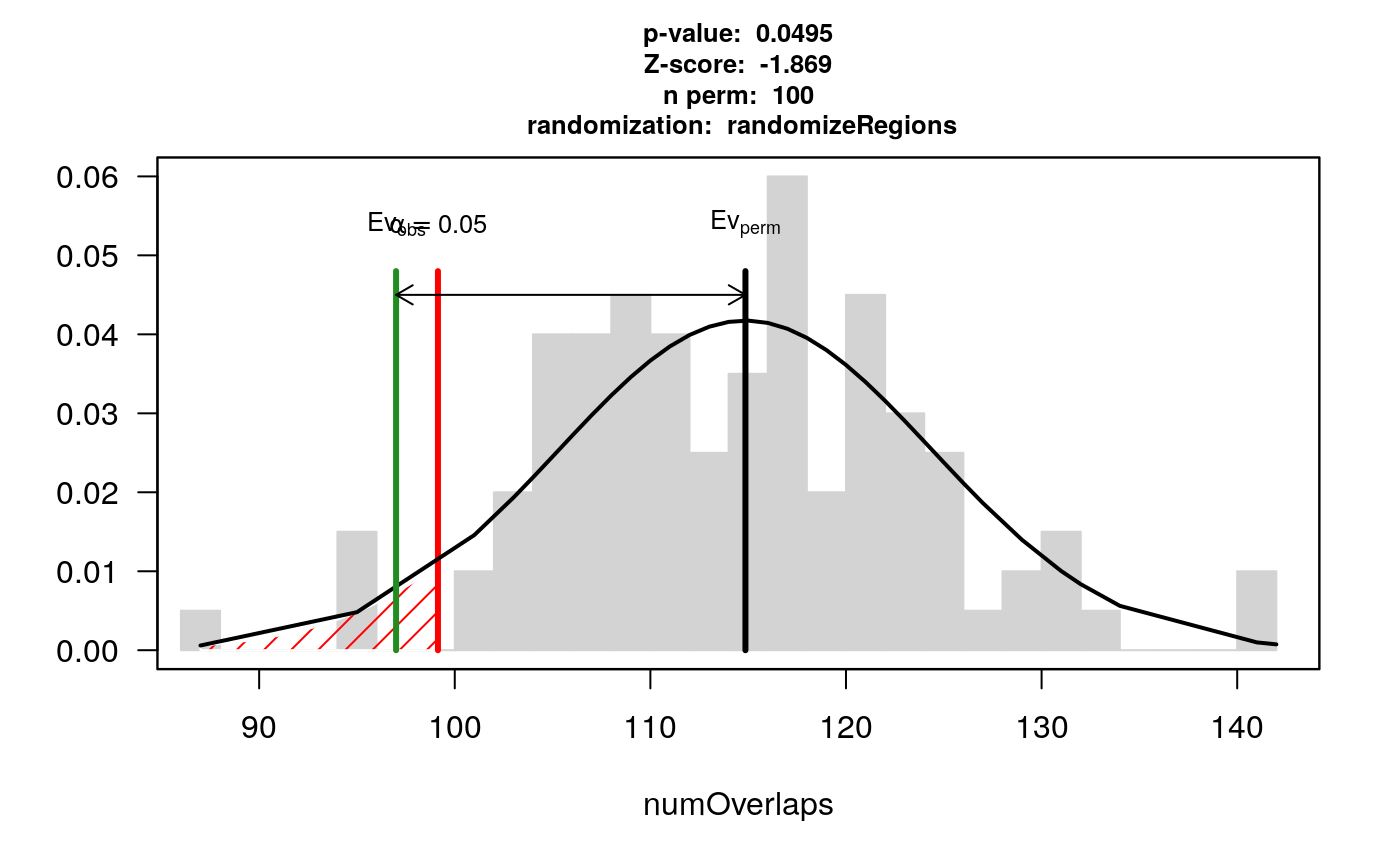
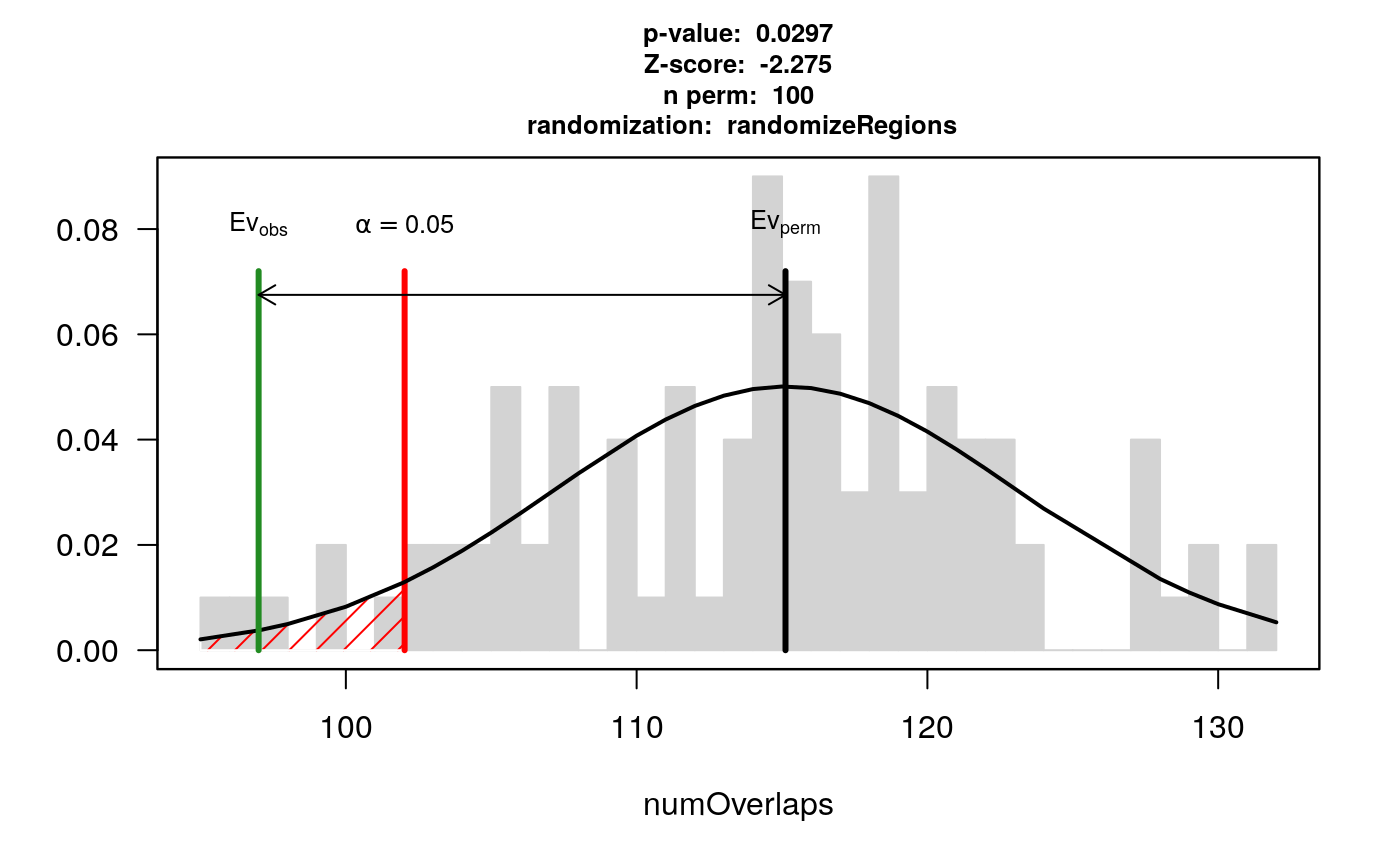
Deploying to gh-pages from  @ e99ae902c33673b4fa2f8177d49039a20d72703a 🚀

diff --git a/articles/Geistlinger_CNVWorkshop.html b/articles/Geistlinger_CNVWorkshop.html
@@ -177,7 +177,7 @@
 <p>Relevant literature:</p>
 <p>da Silva V, Ramos M, Groenen M, Crooijmans R, Johansson A, Regitano L, Coutinho L, Zimmer R, Waldron L, Geistlinger L. <a href="https://doi.org/10.1093/bioinformatics/btz632">CNVRanger: association analysis of CNVs with gene expression and quantitative phenotypes</a>. <em>Bioinformatics</em>, 36(3):972-3, 2020.</p>
 <p>Oh S, Geistlinger L, Ramos M, Morgan M, Waldron L, Riester M. <a href="https://doi.org/10.1200/CCI.19.00130">Reliable analysis of clinical tumor-only whole-exome sequencing data</a>. <em>JCO Clin Cancer Inform</em>, 4:321-35, 2020.</p>
-<p>Geistlinger L, Oh S, Ramos M, Schiffer L, LaRue R, Henzler C, Munro S, Daughters C, Nelson A, Winterhoff B, Chang Z, Talukdar S, Shetty M, Mullaney S, Morgan M, Parmigiani G, Birrer M, Qin LX, Riester M, Starr T, Waldron L. <a href="https://doi.org/10.1101/554394">Multi-omic analysis of subtype evolution and heterogeneity in high-grade serous ovarian carcinoma</a>. <em>bioRxiv</em>, 2020.</p>
+<p>Geistlinger L, Oh S, Ramos M, Schiffer L, LaRue R, Henzler C, Munro S, Daughters C, Nelson A, Winterhoff B, Chang Z, Talukdar S, Shetty M, Mullaney S, Morgan M, Parmigiani G, Birrer M, Qin LX, Riester M, Starr T, Waldron L. <a href="https://doi.org/10.1101/554394">Multi-omic analysis of subtype evolution and heterogeneity in high-grade serous ovarian carcinoma</a>. <em>Cancer Research</em>, 2020.</p>
 </div>
 <div id="representation-and-manipulation-of-cnv-data-with-raggedexperiment" class="section level2">
 <h2 class="hasAnchor">
@@ -396,7 +396,7 @@ RaggedExperiment object schematic. Rows and columns represent genomic ranges and
 <div id="reading-and-accessing-cnv-data" class="section level3">
 <h3 class="hasAnchor">
 <a href="#reading-and-accessing-cnv-data" class="anchor"></a>Reading and accessing CNV data</h3>
-<p><img src="../../../../usr/local/lib/R/site-library/CNVRanger/vignettes/Input.png" width="100%"></p>
+<p><img src="Input.png" width="100%"></p>
 <p><code>CNVRanger</code> uses Bioconductor core data structures implemented in the <a href="http://bioconductor.org/packages/GenomicRanges">GenomicRanges</a> and <a href="http://bioconductor.org/packages/RaggedExperiment">RaggedExperiment</a> packages to represent, access, and manipulate CNV data.</p>
 <p>We start by loading the package.</p>
 <div class="sourceCode" id="cb33"><html><body><pre class="r"><span class="fu"><a href="https://rdrr.io/r/base/library.html">library</a></span>(<span class="no">CNVRanger</span>)</pre></body></html></div>
@@ -546,23 +546,23 @@ RaggedExperiment object schematic. Rows and columns represent genomic ranges and
 <pre><code>## DataFrame with 711 rows and 2 columns
 ##             weight       fcr
 ##          &lt;numeric&gt; &lt;numeric&gt;
-## NE001357   1010.73      4.91
-## NE001358   1085.78      4.69
-## NE001359   1175.89      7.04
-## NE001360   1105.79      3.87
-## NE001361   1063.63      7.59
+## NE001357    947.12      4.81
+## NE001358   1035.79      5.89
+## NE001359    956.55      8.43
+## NE001360   1173.04      7.58
+## NE001361   1145.18      7.00
 ## ...            ...       ...
-## NE003962   1181.32      3.93
-## NE003963   1171.99      5.62
-## NE003966   1261.44      7.62
-## NE003967   1078.17      5.44
-## NE003968   1151.47      7.75</code></pre>
+## NE003962   1025.24      8.17
+## NE003963   1160.86      6.81
+## NE003966   1005.61      7.50
+## NE003967   1127.88      3.64
+## NE003968   1071.93      6.11</code></pre>
 </div>
 </div>
 <div id="summarizing-individual-cnv-calls-across-a-population" class="section level3">
 <h3 class="hasAnchor">
 <a href="#summarizing-individual-cnv-calls-across-a-population" class="anchor"></a>Summarizing individual CNV calls across a population</h3>
-<p><img src="../../../../usr/local/lib/R/site-library/CNVRanger/vignettes/Summarization.png" width="40%" style="float:right; padding:10px"></p>
+<p><img src="Summarization.png" width="40%" style="float:right; padding:10px"></p>
 <p>In CNV analysis, it is often of interest to summarize individual calls across the population, (i.e. to define CNV regions), for subsequent association analysis with expression and phenotype data. In the simplest case, this just merges overlapping individual calls into summarized regions. However, this typically inflates CNV region size, and more appropriate approaches have been developed for this purpose.</p>
 <div id="trimming-low-density-areas" class="section level4">
 <h4 class="hasAnchor">
@@ -638,12 +638,12 @@ RaggedExperiment object schematic. Rows and columns represent genomic ranges and
 <div id="overlap-analysis-of-cnvs-with-functional-genomic-regions" class="section level3">
 <h3 class="hasAnchor">
 <a href="#overlap-analysis-of-cnvs-with-functional-genomic-regions" class="anchor"></a>Overlap analysis of CNVs with functional genomic regions</h3>
-<p><img src="../../../../usr/local/lib/R/site-library/CNVRanger/vignettes/Overlap.png" width="40%" style="float:right; padding:10px"></p>
+<p><img src="Overlap.png" width="40%" style="float:right; padding:10px"></p>
 <p>Once individual CNV calls have been summarized across the population, it is typically of interest whether the resulting CNV regions overlap with functional genomic regions such as genes, promoters, or enhancers.</p>
 <p>To obtain the location of protein-coding genes, we query available <em>Bos taurus</em> annotation from Ensembl</p>
 <div class="sourceCode" id="cb57"><html><body><pre class="r"><span class="fu"><a href="https://rdrr.io/r/base/library.html">library</a></span>(<span class="no">AnnotationHub</span>)
 <span class="no">ah</span> <span class="kw">&lt;-</span> <span class="kw pkg">AnnotationHub</span><span class="kw ns">::</span><span class="fu"><a href="https://rdrr.io/pkg/AnnotationHub/man/AnnotationHub-class.html">AnnotationHub</a></span>()</pre></body></html></div>
-<pre><code>## using temporary cache /tmp/RtmpUW0TrD/BiocFileCache</code></pre>
+<pre><code>## using temporary cache /tmp/RtmpemSfzg/BiocFileCache</code></pre>
 <pre><code>## snapshotDate(): 2020-06-18</code></pre>
 <div class="sourceCode" id="cb60"><html><body><pre class="r"><span class="no">ahDb</span> <span class="kw">&lt;-</span> <span class="kw pkg">AnnotationHub</span><span class="kw ns">::</span><span class="fu"><a href="https://rdrr.io/pkg/AnnotationHub/man/AnnotationHub-class.html">query</a></span>(<span class="no">ah</span>, <span class="kw">pattern</span> <span class="kw">=</span> <span class="fu"><a href="https://rdrr.io/r/base/c.html">c</a></span>(<span class="st">"Bos taurus"</span>, <span class="st">"EnsDb"</span>))
 <span class="no">ahDb</span></pre></body></html></div>
@@ -783,8 +783,8 @@ RaggedExperiment object schematic. Rows and columns represent genomic ranges and
     <span class="kw">genome</span><span class="kw">=</span><span class="st">"bosTau6"</span>, <span class="kw">mask</span><span class="kw">=</span><span class="fl">NA</span>, <span class="kw">per.chromosome</span><span class="kw">=</span><span class="fl">TRUE</span>, <span class="kw">count.once</span><span class="kw">=</span><span class="fl">TRUE</span>))
 <span class="no">res</span></pre></body></html></div>
 <pre><code>## $numOverlaps
-## P-value: 0.0495049504950495
-## Z-score: -1.8688
+## P-value: 0.0297029702970297
+## Z-score: -2.2753
 ## Number of iterations: 100
 ## Alternative: less
 ## Evaluation of the original region set: 97
@@ -795,8 +795,8 @@ RaggedExperiment object schematic. Rows and columns represent genomic ranges and
 ## [1] "permTestResultsList"</code></pre>
 <div class="sourceCode" id="cb75"><html><body><pre class="r"><span class="fu"><a href="https://rdrr.io/r/base/summary.html">summary</a></span>(<span class="no">res</span><span class="kw">[[</span><span class="fl">1</span>]]$<span class="no">permuted</span>)</pre></body></html></div>
 <pre><code>##    Min. 1st Qu.  Median    Mean 3rd Qu.    Max. 
-##    87.0   108.0   115.0   114.9   121.0   142.0</code></pre>
-<p>The resulting permutation <em>p</em>-value indicates a significant depletion. Out of the 303 CNV regions, 97 overlap with at least one gene. In contrast, when repeatedly drawing random regions matching the CNV regions in size and chromosomal distribution, the mean number of overlapping regions across permutations was 114.9 <span class="math inline">\(\pm\)</span> 9.6.</p>
+##    95.0   110.0   116.0   115.1   120.0   132.0</code></pre>
+<p>The resulting permutation <em>p</em>-value indicates a significant depletion. Out of the 303 CNV regions, 97 overlap with at least one gene. In contrast, when repeatedly drawing random regions matching the CNV regions in size and chromosomal distribution, the mean number of overlapping regions across permutations was 115.1 <span class="math inline">\(\pm\)</span> 8.</p>
 <p>This finding is consistent with our observations across the whole genome (<a href="https://doi.org/10.1371/journal.pone.0157711">da Silva et al., 2016</a>) and findings from the 1000 Genomes Poject (<a href="https://www.nature.com/articles/nature15394">Sudmant et al., 2015</a>).</p>
 <div class="sourceCode" id="cb77"><html><body><pre class="r"><span class="fu"><a href="https://rdrr.io/r/base/plot.html">plot</a></span>(<span class="no">res</span>)</pre></body></html></div>
 <p><img src="Geistlinger_CNVWorkshop_files/figure-html/vizPermTest-1.png" width="100%"></p>
@@ -804,7 +804,7 @@ RaggedExperiment object schematic. Rows and columns represent genomic ranges and
 <div id="cnv-expression-association-analysis" class="section level3">
 <h3 class="hasAnchor">
 <a href="#cnv-expression-association-analysis" class="anchor"></a>CNV-expression association analysis</h3>
-<p><img src="../../../../usr/local/lib/R/site-library/CNVRanger/vignettes/Expression.png" width="40%" style="float:right; padding:10px"></p>
+<p><img src="Expression.png" width="40%" style="float:right; padding:10px"></p>
 <p>Studies of expression quantitative trait loci (eQTLs) aim at the discovery of genetic variants that explain variation in gene expression levels (<a href="https://www.ncbi.nlm.nih.gov/pubmed/23650636">Nica and Dermitzakis, 2013</a>). Mainly applied in the context of SNPs, the concept also naturally extends to the analysis of CNVs.</p>
 <p>The <code>CNVRanger</code> package implements association testing between CNV regions and RNA-seq read counts using <code>edgeR</code>, which applies generalized linear models based on the negative-binomial distribution while incorporating normalization factors for different library sizes.</p>
 <p>In the case of only one CN state deviating from 2n for a CNV region under investigation, this reduces to the classical 2-group comparison. For more than two states (e.g. 0n, 1n, 2n), edgeR’s ANOVA-like test is applied to test all deviating groups for significant expression differences relative to 2n.</p>
